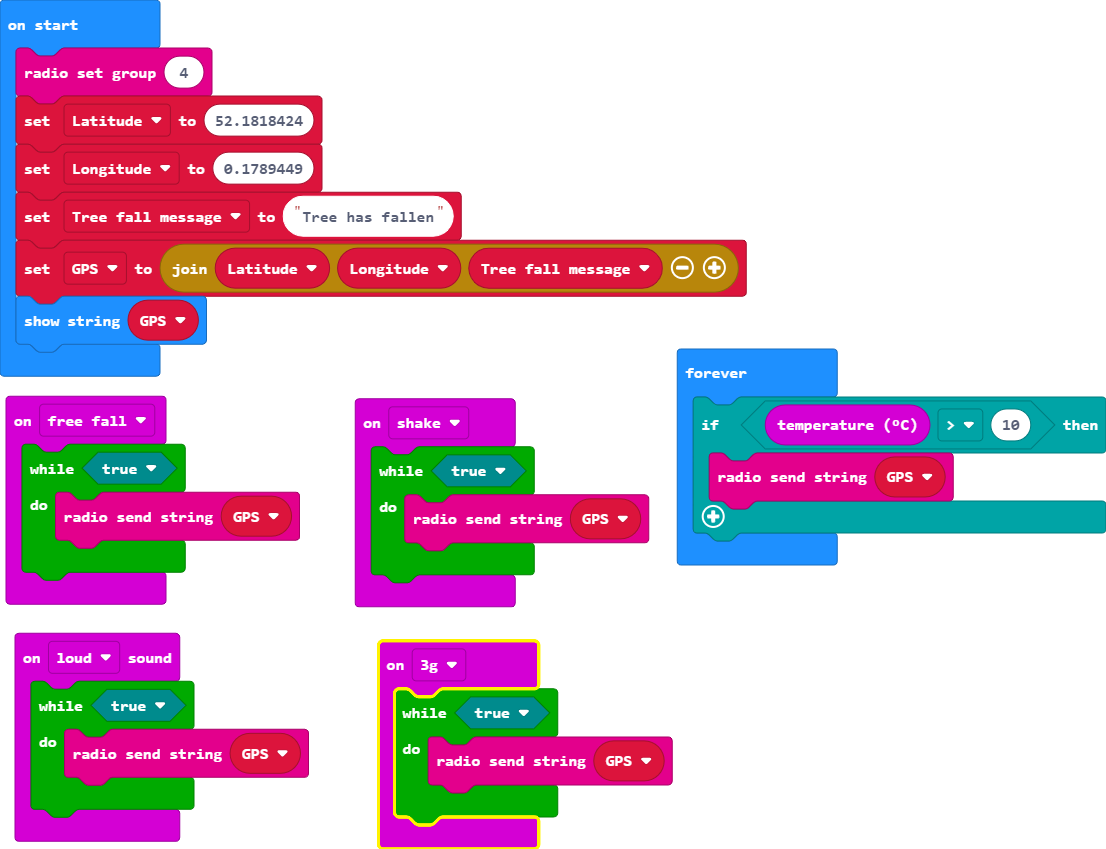
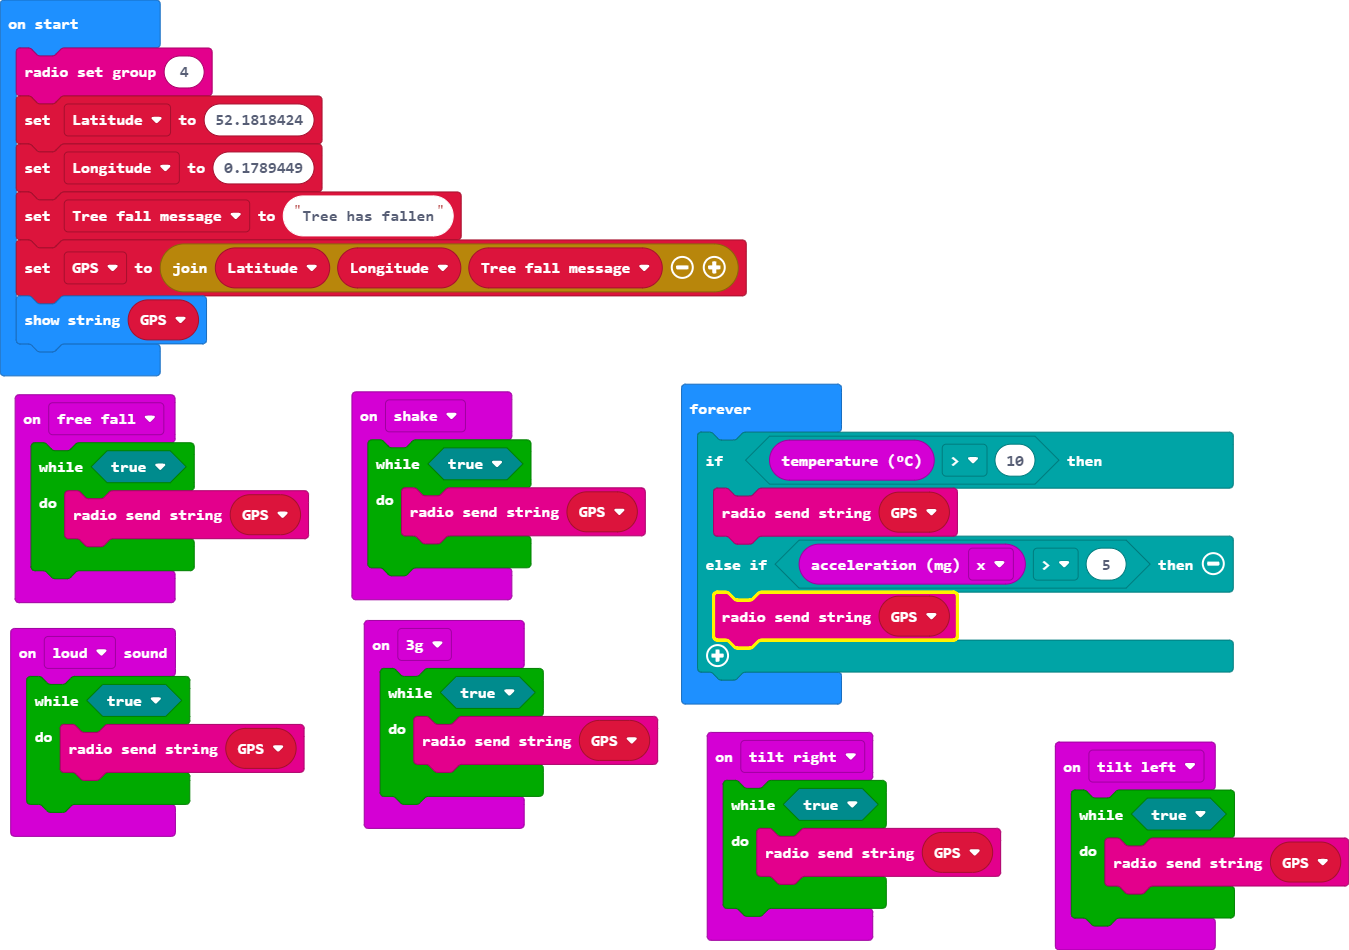
Update main.blocks, main.ts

diff --git a/main.ts b/main.ts
@@ -3,12 +3,22 @@ input.onGesture(Gesture.FreeFall, function () {
         radio.sendString(GPS)
     }
 })
+input.onGesture(Gesture.TiltLeft, function () {
+    while (true) {
+        radio.sendString(GPS)
+    }
+})
 input.onSound(DetectedSound.Loud, function () {
     while (true) {
         radio.sendString(GPS)
     }
 })
 input.onGesture(Gesture.Shake, function () {
+    while (true) {
+        radio.sendString(GPS)
+    }
+})
+input.onGesture(Gesture.TiltRight, function () {
     while (true) {
         radio.sendString(GPS)
     }
@@ -27,6 +37,8 @@ GPS = "" + Latitude + Longitude + Tree_fall_message
 basic.showString(GPS)
 basic.forever(function () {
     if (input.temperature() > 10) {
+        radio.sendString(GPS)
+    } else if (input.acceleration(Dimension.X) > 5) {
         radio.sendString(GPS)
     }
 })
